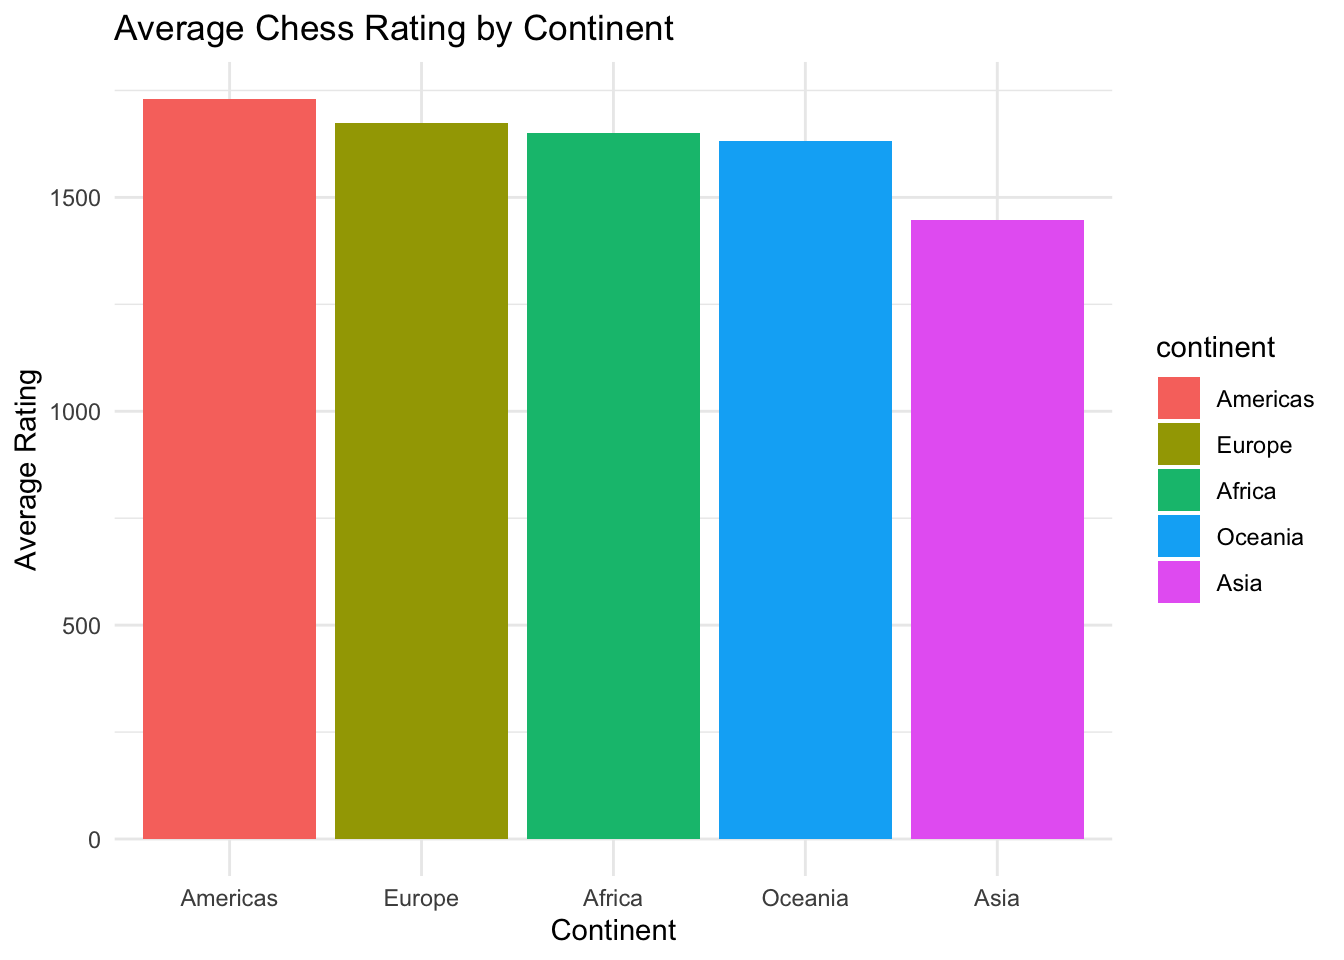
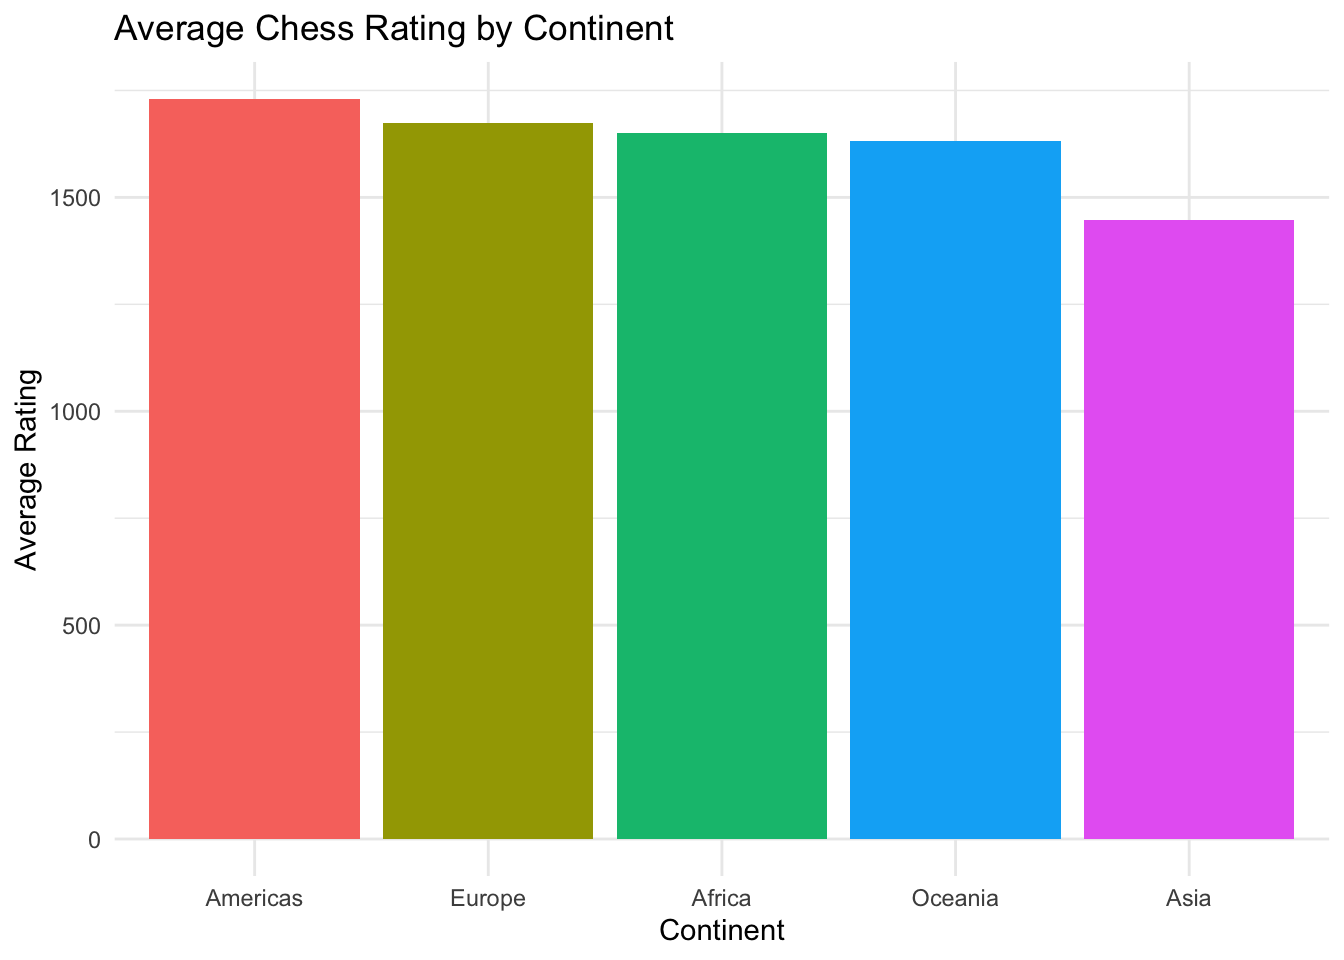
Built site for gh-pages

diff --git a/analysis.html b/analysis.html
@@ -195,7 +195,7 @@ pre > code.sourceCode > span > a:first-child::before { text-decoration: underlin
 <span id="cb2-4"><a href="#cb2-4" aria-hidden="true" tabindex="-1"></a>  <span class="fu">geom_col</span>()  </span>
 <span id="cb2-5"><a href="#cb2-5" aria-hidden="true" tabindex="-1"></a>graphic1<span class="sc">+</span></span>
 <span id="cb2-6"><a href="#cb2-6" aria-hidden="true" tabindex="-1"></a>  <span class="fu">labs</span>(</span>
-<span id="cb2-7"><a href="#cb2-7" aria-hidden="true" tabindex="-1"></a>    <span class="at">title =</span> <span class="st">"Plaers and Ratihgs"</span>,</span>
+<span id="cb2-7"><a href="#cb2-7" aria-hidden="true" tabindex="-1"></a>    <span class="at">title =</span> <span class="st">"Players and Ratings"</span>,</span>
 <span id="cb2-8"><a href="#cb2-8" aria-hidden="true" tabindex="-1"></a>    <span class="at">subtitle =</span> <span class="st">"Per Country"</span>,</span>
 <span id="cb2-9"><a href="#cb2-9" aria-hidden="true" tabindex="-1"></a>    <span class="at">x =</span> <span class="st">"Name"</span>,</span>
 <span id="cb2-10"><a href="#cb2-10" aria-hidden="true" tabindex="-1"></a>    <span class="at">y =</span> <span class="st">"Rating"</span></span>
@@ -209,6 +209,7 @@ pre > code.sourceCode > span > a:first-child::before { text-decoration: underlin
 </div>
 </div>
 </div>
+<p>Առաջին տեղում Մագնուս Կառլսենէ նրա ռեյտինգը 2865 և նորվեգիացի է:</p>
 <div class="cell">
 <div class="sourceCode cell-code" id="cb3"><pre class="sourceCode r code-with-copy"><code class="sourceCode r"><span id="cb3-1"><a href="#cb3-1" aria-hidden="true" tabindex="-1"></a><span class="fu">library</span>(dplyr)</span>
 <span id="cb3-2"><a href="#cb3-2" aria-hidden="true" tabindex="-1"></a><span class="fu">library</span>(ggplot2)</span>
@@ -229,14 +230,15 @@ pre > code.sourceCode > span > a:first-child::before { text-decoration: underlin
 <span id="cb3-17"><a href="#cb3-17" aria-hidden="true" tabindex="-1"></a>graphic2 <span class="ot">&lt;-</span> <span class="fu">ggplot</span>(data3, <span class="fu">aes</span>(<span class="at">x =</span> country, <span class="at">fill =</span> country)) <span class="sc">+</span> </span>
 <span id="cb3-18"><a href="#cb3-18" aria-hidden="true" tabindex="-1"></a>  <span class="fu">geom_bar</span>(<span class="at">linewidth =</span> <span class="fl">0.5</span>) <span class="sc">+</span></span>
 <span id="cb3-19"><a href="#cb3-19" aria-hidden="true" tabindex="-1"></a>  <span class="fu">labs</span>(</span>
-<span id="cb3-20"><a href="#cb3-20" aria-hidden="true" tabindex="-1"></a>    <span class="at">title =</span> <span class="st">""</span>,</span>
-<span id="cb3-21"><a href="#cb3-21" aria-hidden="true" tabindex="-1"></a>    <span class="at">subtitle =</span> <span class="st">"Per Country"</span>,</span>
+<span id="cb3-20"><a href="#cb3-20" aria-hidden="true" tabindex="-1"></a>    <span class="at">title =</span> <span class="st">"Players Per Country"</span>,</span>
+<span id="cb3-21"><a href="#cb3-21" aria-hidden="true" tabindex="-1"></a>    <span class="at">subtitle =</span> <span class="st">""</span>,</span>
 <span id="cb3-22"><a href="#cb3-22" aria-hidden="true" tabindex="-1"></a>    <span class="at">x =</span> <span class="st">"Name"</span>,</span>
-<span id="cb3-23"><a href="#cb3-23" aria-hidden="true" tabindex="-1"></a>    <span class="at">y =</span> <span class="st">"Frequency"</span></span>
+<span id="cb3-23"><a href="#cb3-23" aria-hidden="true" tabindex="-1"></a>    <span class="at">y =</span> <span class="st">"Number of players"</span></span>
 <span id="cb3-24"><a href="#cb3-24" aria-hidden="true" tabindex="-1"></a>  ) <span class="sc">+</span></span>
-<span id="cb3-25"><a href="#cb3-25" aria-hidden="true" tabindex="-1"></a>  <span class="fu">theme</span>(<span class="at">axis.text.x =</span> <span class="fu">element_text</span>(<span class="at">angle =</span> <span class="dv">45</span>, <span class="at">hjust =</span> <span class="dv">1</span>))</span>
-<span id="cb3-26"><a href="#cb3-26" aria-hidden="true" tabindex="-1"></a></span>
-<span id="cb3-27"><a href="#cb3-27" aria-hidden="true" tabindex="-1"></a>graphic2</span></code><button title="Copy to Clipboard" class="code-copy-button"><i class="bi"></i></button></pre></div>
+<span id="cb3-25"><a href="#cb3-25" aria-hidden="true" tabindex="-1"></a>  <span class="fu">theme</span>(<span class="at">axis.text.x =</span> <span class="fu">element_text</span>(<span class="at">angle =</span> <span class="dv">45</span>, <span class="at">hjust =</span> <span class="dv">1</span>))<span class="sc">+</span> </span>
+<span id="cb3-26"><a href="#cb3-26" aria-hidden="true" tabindex="-1"></a>  <span class="fu">theme</span>(<span class="at">legend.position=</span><span class="st">"none"</span>)</span>
+<span id="cb3-27"><a href="#cb3-27" aria-hidden="true" tabindex="-1"></a></span>
+<span id="cb3-28"><a href="#cb3-28" aria-hidden="true" tabindex="-1"></a>graphic2</span></code><button title="Copy to Clipboard" class="code-copy-button"><i class="bi"></i></button></pre></div>
 <div class="cell-output-display">
 <div>
 <figure class="figure">
@@ -245,6 +247,7 @@ pre > code.sourceCode > span > a:first-child::before { text-decoration: underlin
 </div>
 </div>
 </div>
+<p>Ամենից շատ շախմատիստները գտնվում են Ռուսաստանում:</p>
 <div class="cell">
 <div class="sourceCode cell-code" id="cb4"><pre class="sourceCode r code-with-copy"><code class="sourceCode r"><span id="cb4-1"><a href="#cb4-1" aria-hidden="true" tabindex="-1"></a>data4 <span class="ot">&lt;-</span> data <span class="sc">%&gt;%</span> </span>
 <span id="cb4-2"><a href="#cb4-2" aria-hidden="true" tabindex="-1"></a>  <span class="fu">filter</span>(country <span class="sc">==</span> <span class="st">"RUS"</span>)</span>
@@ -255,10 +258,10 @@ pre > code.sourceCode > span > a:first-child::before { text-decoration: underlin
 <span id="cb4-7"><a href="#cb4-7" aria-hidden="true" tabindex="-1"></a></span>
 <span id="cb4-8"><a href="#cb4-8" aria-hidden="true" tabindex="-1"></a></span>
 <span id="cb4-9"><a href="#cb4-9" aria-hidden="true" tabindex="-1"></a>graphic3<span class="sc">+</span></span>
-<span id="cb4-10"><a href="#cb4-10" aria-hidden="true" tabindex="-1"></a> <span class="fu">labs</span>(<span class="at">title=</span><span class="st">""</span>,</span>
+<span id="cb4-10"><a href="#cb4-10" aria-hidden="true" tabindex="-1"></a> <span class="fu">labs</span>(<span class="at">title=</span><span class="st">"Score of Players from Russia"</span>,</span>
 <span id="cb4-11"><a href="#cb4-11" aria-hidden="true" tabindex="-1"></a>       <span class="at">subtitle=</span><span class="st">""</span>,</span>
-<span id="cb4-12"><a href="#cb4-12" aria-hidden="true" tabindex="-1"></a>       <span class="at">x=</span><span class="st">"Name"</span>,</span>
-<span id="cb4-13"><a href="#cb4-13" aria-hidden="true" tabindex="-1"></a>       <span class="at">y=</span><span class="st">""</span>,</span>
+<span id="cb4-12"><a href="#cb4-12" aria-hidden="true" tabindex="-1"></a>       <span class="at">x=</span><span class="st">"Rating"</span>,</span>
+<span id="cb4-13"><a href="#cb4-13" aria-hidden="true" tabindex="-1"></a>       <span class="at">y=</span><span class="st">"Number of Players"</span>,</span>
 <span id="cb4-14"><a href="#cb4-14" aria-hidden="true" tabindex="-1"></a> )</span></code><button title="Copy to Clipboard" class="code-copy-button"><i class="bi"></i></button></pre></div>
 <div class="cell-output cell-output-stderr">
 <pre><code>`stat_bin()` using `bins = 30`. Pick better value with `binwidth`.</code></pre>
@@ -271,6 +274,7 @@ pre > code.sourceCode > span > a:first-child::before { text-decoration: underlin
 </div>
 </div>
 </div>
+<p>2812</p>
 <div class="cell">
 <div class="sourceCode cell-code" id="cb6"><pre class="sourceCode r code-with-copy"><code class="sourceCode r"><span id="cb6-1"><a href="#cb6-1" aria-hidden="true" tabindex="-1"></a><span class="fu">library</span>(dplyr)</span>
 <span id="cb6-2"><a href="#cb6-2" aria-hidden="true" tabindex="-1"></a><span class="fu">library</span>(ggplot2)</span>
@@ -304,7 +308,8 @@ Caused by warning:
 <span id="cb8-16"><a href="#cb8-16" aria-hidden="true" tabindex="-1"></a>    <span class="at">x =</span> <span class="st">"Continent"</span>,</span>
 <span id="cb8-17"><a href="#cb8-17" aria-hidden="true" tabindex="-1"></a>    <span class="at">y =</span> <span class="st">"Average Rating"</span></span>
 <span id="cb8-18"><a href="#cb8-18" aria-hidden="true" tabindex="-1"></a>  ) <span class="sc">+</span></span>
-<span id="cb8-19"><a href="#cb8-19" aria-hidden="true" tabindex="-1"></a>  <span class="fu">theme_minimal</span>()</span></code><button title="Copy to Clipboard" class="code-copy-button"><i class="bi"></i></button></pre></div>
+<span id="cb8-19"><a href="#cb8-19" aria-hidden="true" tabindex="-1"></a>  <span class="fu">theme_minimal</span>() <span class="sc">+</span> </span>
+<span id="cb8-20"><a href="#cb8-20" aria-hidden="true" tabindex="-1"></a>  <span class="fu">theme</span>(<span class="at">legend.position=</span><span class="st">"none"</span>)</span></code><button title="Copy to Clipboard" class="code-copy-button"><i class="bi"></i></button></pre></div>
 <div class="cell-output-display">
 <div>
 <figure class="figure">

diff --git a/index.html b/index.html
@@ -140,7 +140,7 @@ ul.task-list li input[type="checkbox"] {
 </header>
 
 
-<p>Բարի գալուստ իմ պրոջեքտ ես հետազոտել եմ շախմատիստների մասին:</p>
+<p>Բարի գալուստ իմ պրոջեքտ ես հետազոտել եմ շախմատիստների մասին: Իմ պրոեքտ ներկայացնում է</p>
 <div class="cell">
 <div class="cell-output-display">
 <div>

diff --git a/sources.html b/sources.html
@@ -141,7 +141,7 @@ ul.task-list li input[type="checkbox"] {
 
 
 <p>I am using data from Kaggle. It is from 2023.</p>
-<p>https://www.kaggle.com/datasets/goldian/chess</p>
+<p><a href="https://www.kaggle.com/datasets/goldian/chess">https://www.kaggle.com/datasets/goldian/chess</a></p>
 
 
 
